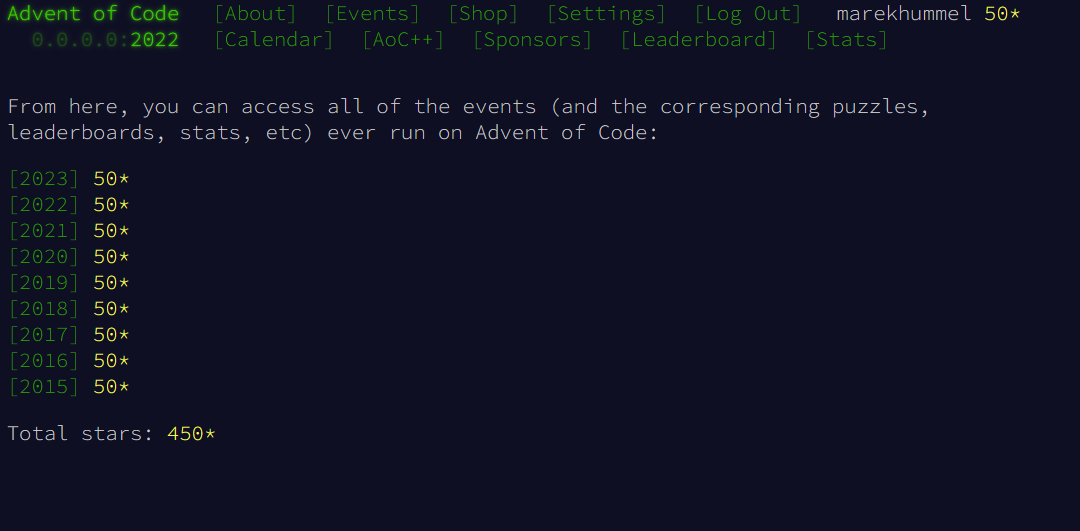
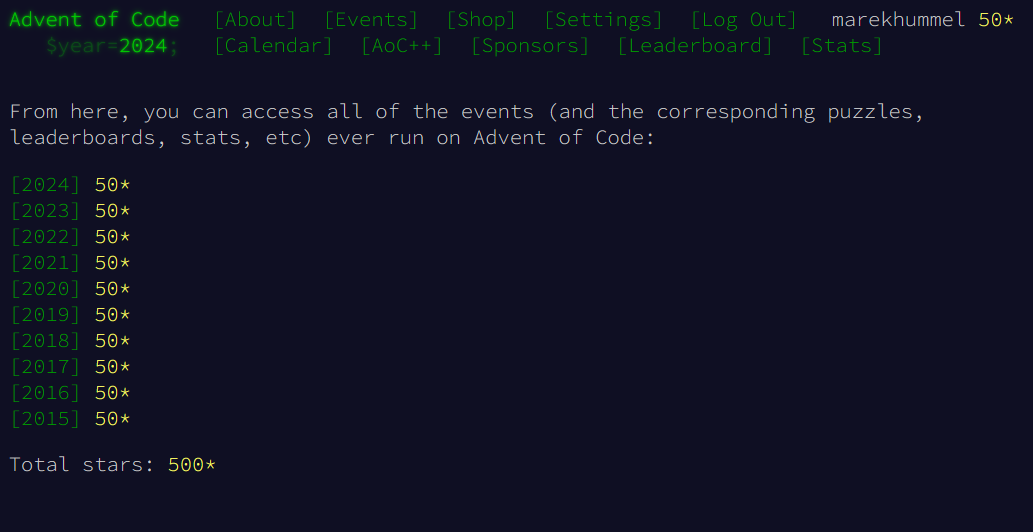
Finalized 2024

diff --git a/README.md b/README.md
@@ -1,9 +1,9 @@
 # Advent Of Code
 Advent Of Code solutions.
-Contains solutions for all years from 2015 to 2023 (2024 ongoing), all of them solved in Rust.
-Addionally, there are some extra implementations in python (2023), golang (2015-07, 2016-10) and zig (2024).
+Contains solutions for all years from 2015 to 2024, almost all of them solved in Rust (2024 not yet, just zig).
+Addionally, there are some extra implementations in python (2023), golang (2015-07, 2016-10, 2024-24) and zig (2024).
 
-Note thatmostly for rust and a bit for zig it made sense to implement a library for reusage of code and structures and what not. Nonetheless the important part of each day should still be in the respective daily file. Moreover, both rust and zigs daily files contain the solution values for that day, so that unit tests can check if some code broke a specific day.
+Note that mostly for rust and a bit for zig it made sense to implement a library for reusage of code and structures and what not. Nonetheless the important part of each day should still be in the respective daily file. Moreover, both rust and zigs daily files contain the solution values for that day, so that unit tests can check if some code broke a specific day.
 
 ### Run
 To run, check the main files per year in each languages' directory. There are general entry points for each year in Rust, for 2023 there is also one for Python and for 2024 there is one for zig. Golang only has single single day solutions and needs to be called directly.

diff --git a/2024/README.md b/2024/README.md
@@ -1,0 +1,10 @@
+# 2024
+
+### Overview
+![Overview](2024_overview.png)
+
+### Final Star
+![Final Star](2024_conclusion.png)
+
+### Solutions
+[Solution File](solutions.txt)
